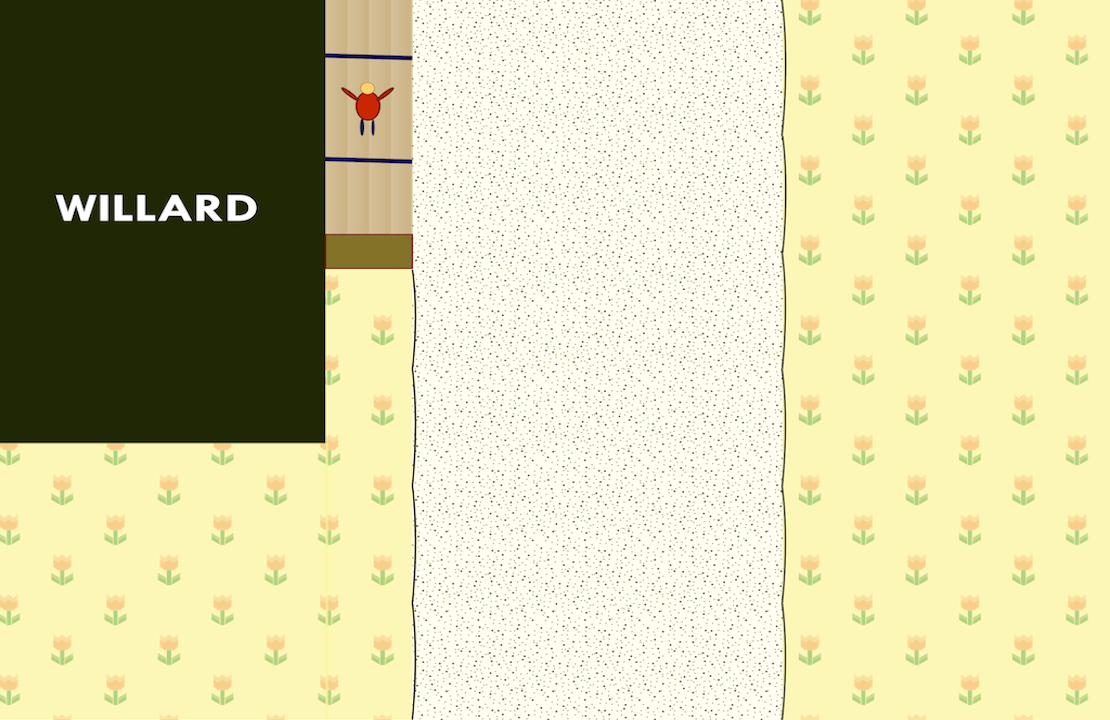
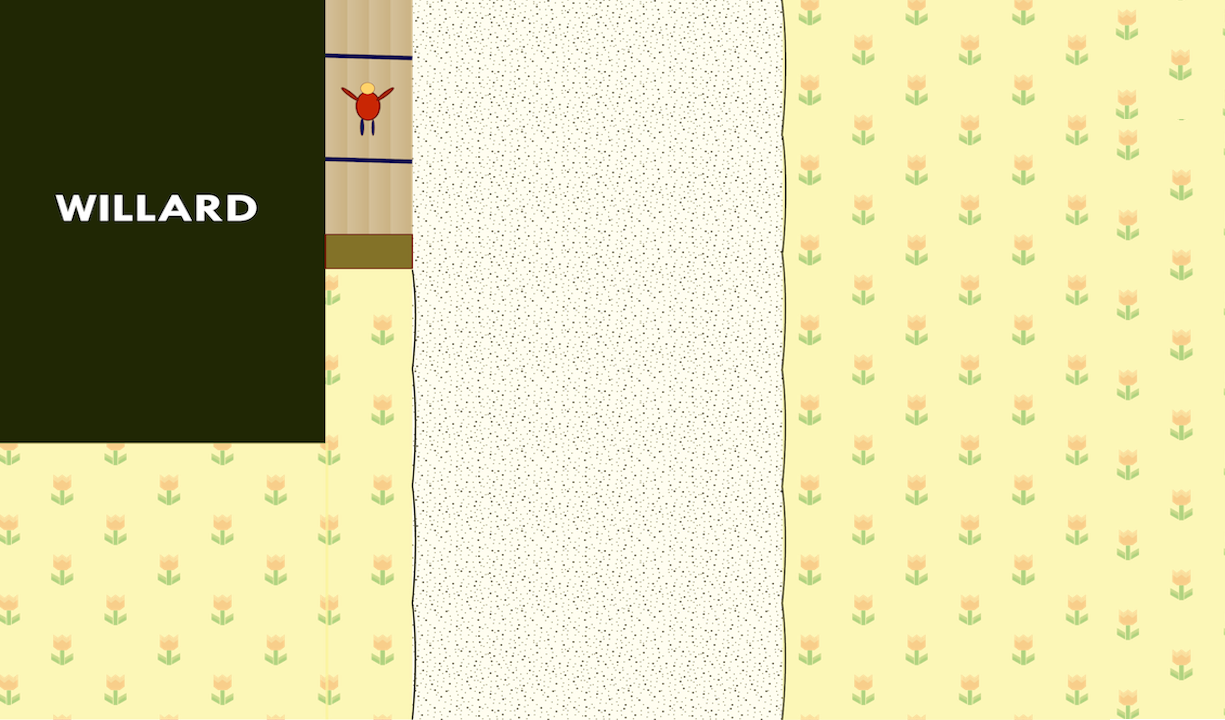
Finalized lots of things
Changed buttons and images and other things

diff --git a/LateToClass/src/latetoclass/SettingsPanel.java b/LateToClass/src/latetoclass/SettingsPanel.java
@@ -1,5 +1,6 @@
 package latetoclass;
 
+import java.awt.Color;
 import java.awt.event.ActionEvent;
 import java.awt.event.ActionListener;
 import javax.swing.ImageIcon;
@@ -53,8 +54,17 @@ public class SettingsPanel extends JPanel implements ActionListener{
         add(hardDifficultyButton);
         
         //Make the play button invisible until the user picks a player.
-        playGame.setVisible(false);
+        //playGame.setEnabled(false);
         scoreLabel.setVisible(false);
+        easyDifficultyButton.setBackground(Color.PINK);
+        mediumDifficultyButton.setBackground(Color.PINK);
+        hardDifficultyButton.setBackground(Color.PINK);
+        winterButton.setBackground(Color.CYAN);
+        springButton.setBackground(Color.CYAN);
+        summerButton.setBackground(Color.CYAN);
+        fallButton.setBackground(Color.CYAN);
+        playGame.setBackground(Color.green);
+        
         
         playGame.addActionListener(this);
         boyButton.addActionListener(this);
@@ -66,6 +76,22 @@ public class SettingsPanel extends JPanel implements ActionListener{
         easyDifficultyButton.addActionListener(this);
         mediumDifficultyButton.addActionListener(this);
         hardDifficultyButton.addActionListener(this);
+        
+        gameDifficulty = 20;
+        gf.gp.gamePiece.numberOfMistakes = 5;
+        easyDifficultyButton.setBackground(Color.RED);
+        
+        gf.gp.gamePiece.image = new ImageIcon("images/boy.png");
+        gf.gp.gamePiece.player = new JButton(gf.gp.gamePiece.image);
+        gf.currentPlayer = 0;
+        boyButton.setBackground(Color.gray);
+        
+        gf.gp.background = new ImageIcon("images/bg_summer.png");
+        gf.gp.background1 = gf.gp.background.getImage();
+        summerButton.setBackground(Color.blue);
+        gf.gp.repaint();
+        
+        
     }
 
     public void actionPerformed(ActionEvent e) {
@@ -74,26 +100,66 @@ public class SettingsPanel extends JPanel implements ActionListener{
         if(obj == easyDifficultyButton) {
             gameDifficulty = 20;
             gf.gp.gamePiece.numberOfMistakes = 5;
+            if(mediumDifficultyButton.getBackground().equals(Color.RED) || hardDifficultyButton.getBackground().equals(Color.RED))
+            {
+            easyDifficultyButton.setBackground(Color.RED);
+            mediumDifficultyButton.setBackground(Color.PINK);
+            hardDifficultyButton.setBackground(Color.PINK);
+            }
+            else
+            {
+            easyDifficultyButton.setBackground(Color.RED);
+            }
         }
         if(obj == mediumDifficultyButton) {
             gameDifficulty = 15;
             gf.gp.gamePiece.numberOfMistakes = 3;
+            if(easyDifficultyButton.getBackground().equals(Color.RED) || hardDifficultyButton.getBackground().equals(Color.RED))
+            {
+            mediumDifficultyButton.setBackground(Color.RED);
+            easyDifficultyButton.setBackground(Color.PINK);
+            hardDifficultyButton.setBackground(Color.PINK);
+            }
+            else
+            {
+            mediumDifficultyButton.setBackground(Color.RED);
+            }
         }
         if(obj == hardDifficultyButton) {
             gameDifficulty = 5;
             gf.gp.gamePiece.numberOfMistakes = 1;
+            if(mediumDifficultyButton.getBackground().equals(Color.RED) || easyDifficultyButton.getBackground().equals(Color.RED))
+            {
+            hardDifficultyButton.setBackground(Color.RED);
+            easyDifficultyButton.setBackground(Color.PINK);
+            mediumDifficultyButton.setBackground(Color.PINK);
+            }
+            else
+            {
+            hardDifficultyButton.setBackground(Color.RED);
+            }
         }
         if(obj == playGame){
             gf.gp.startGame();
         }
         if(obj == boyButton){
-            playGame.setVisible(true);
+            if(girlButton.getBackground().equals(Color.gray))
+            {
+            boyButton.setBackground(Color.gray);
+            girlButton.setBackground(null);
+            }
+            boyButton.setBackground(Color.gray);
             gf.gp.gamePiece.image = new ImageIcon("images/boy.png");
             gf.gp.gamePiece.player = new JButton(gf.gp.gamePiece.image);
             gf.currentPlayer = 0;
         }
         if(obj == girlButton){
             playGame.setVisible(true);
+            if(boyButton.getBackground().equals(Color.gray))
+            {
+            girlButton.setBackground(Color.gray);
+            boyButton.setBackground(null);
+            }
             gf.gp.gamePiece.image = new ImageIcon("images/girl.png");
             gf.gp.gamePiece.player = new JButton(gf.gp.gamePiece.image);
             gf.currentPlayer = 1;
@@ -101,20 +167,69 @@ public class SettingsPanel extends JPanel implements ActionListener{
         if(obj == winterButton){
             gf.gp.background = new ImageIcon("images/bg_winter.png");
             gf.gp.background1 = gf.gp.background.getImage();
+            if(fallButton.getBackground().equals(Color.blue) || springButton.getBackground().equals(Color.blue) || summerButton.getBackground().equals(Color.blue))
+            {
+            winterButton.setBackground(Color.blue);
+            fallButton.setBackground(Color.cyan);
+            springButton.setBackground(Color.cyan);
+            summerButton.setBackground(Color.cyan);
+            }
+            else
+            {
+            winterButton.setBackground(Color.blue);
+            }
             gf.gp.repaint();
         }
         if(obj == fallButton){
             gf.gp.background = new ImageIcon("images/bg_fall.png");
+            
+            if(winterButton.getBackground().equals(Color.blue) || springButton.getBackground().equals(Color.blue) || summerButton.getBackground().equals(Color.blue))
+            {
+            fallButton.setBackground(Color.blue);
+            winterButton.setBackground(Color.cyan);
+            springButton.setBackground(Color.cyan);
+            summerButton.setBackground(Color.cyan);
+            }
+            else
+            {
+            fallButton.setBackground(Color.blue);
+            }
+            
             gf.gp.background1 = gf.gp.background.getImage();
             gf.gp.repaint();
         }
         if(obj == springButton){
             gf.gp.background = new ImageIcon("images/bg_spring.png");
+            
+            if(winterButton.getBackground().equals(Color.blue) || fallButton.getBackground().equals(Color.blue) || summerButton.getBackground().equals(Color.blue))
+            {
+            springButton.setBackground(Color.blue);
+            fallButton.setBackground(Color.cyan);
+            winterButton.setBackground(Color.cyan);
+            summerButton.setBackground(Color.cyan);
+            }
+            else
+            {
+            springButton.setBackground(Color.blue);
+            }
+            
             gf.gp.background1 = gf.gp.background.getImage();
             gf.gp.repaint();
         }
         if(obj == summerButton){
             gf.gp.background = new ImageIcon("images/bg_summer.png");
+            
+            if(winterButton.getBackground().equals(Color.blue) || fallButton.getBackground().equals(Color.blue) || springButton.getBackground().equals(Color.blue))
+            {
+            summerButton.setBackground(Color.blue);
+            fallButton.setBackground(Color.cyan);
+            winterButton.setBackground(Color.cyan);
+            springButton.setBackground(Color.cyan);
+            }
+            else
+            {
+            summerButton.setBackground(Color.blue);
+            }
             gf.gp.background1 = gf.gp.background.getImage();
             gf.gp.repaint();
         }

diff --git a/LateToClass/src/latetoclass/GamePanel.java b/LateToClass/src/latetoclass/GamePanel.java
@@ -272,12 +272,7 @@ public class GamePanel extends JPanel implements KeyListener, ActionListener{
                     numCollisions += 1;
                     gf.gp.gamePiece.numberOfMistakes -=1;
                     gf.sp.scoreLabel.setText("Mistakes Left: " + gf.gp.gamePiece.numberOfMistakes);
-                    if(gf.gp.gamePiece.numberOfMistakes == 0)   {
-                        gameLoop.stop();
-                        gf.gp.setVisible(false);
-                        gf.pgp.setVisible(true);
-                        gf.sp.scoreLabel.setText("You Lose");
-                    }
+                    
                 }
                 
                 //if you run into an object, make it stop until you move
@@ -327,7 +322,7 @@ public class GamePanel extends JPanel implements KeyListener, ActionListener{
             }
             
             //if the player reaches Willard building, display dialog box
-            if(gamePiece.player.getLocation().x < 410 && gamePiece.player.getLocation().y < 200 && numCollisions < 4)
+            if(gamePiece.player.getLocation().x < 410 && gamePiece.player.getLocation().y < 200)
             {
                 System.out.println("DIALOG BOX");
                 
@@ -345,11 +340,11 @@ public class GamePanel extends JPanel implements KeyListener, ActionListener{
                 gf.pgp.setVisible(true);
                 gf.sp.scoreLabel.setText("Winner!");                
             }
-            if(numCollisions >= 3)
+            if(gf.gp.gamePiece.numberOfMistakes == 0)
             {
                 gameLoop.stop();
                 background = new ImageIcon("images/bg_loser.gif");
-                 gf.gp.remove(gf.gp.gamePiece.player);
+                gf.gp.remove(gf.gp.gamePiece.player);
                 gf.gp.remove(gf.gp.average1.player);
                 gf.gp.remove(gf.gp.average2.player);
                 gf.gp.remove(gf.gp.texter1.player);

diff --git a/LateToClass/src/latetoclass/Game.java b/LateToClass/src/latetoclass/Game.java
@@ -24,7 +24,7 @@ public class Game extends JFrame{
         getContentPane().add(sp, "South");
         getContentPane().add(pgp, "North");
 	setDefaultCloseOperation(EXIT_ON_CLOSE);
-	setSize (1110, 700);
+	setSize (1225, 700);
         setVisible(true);
         setLocationRelativeTo(null);
         gp.setFocusable(true);
